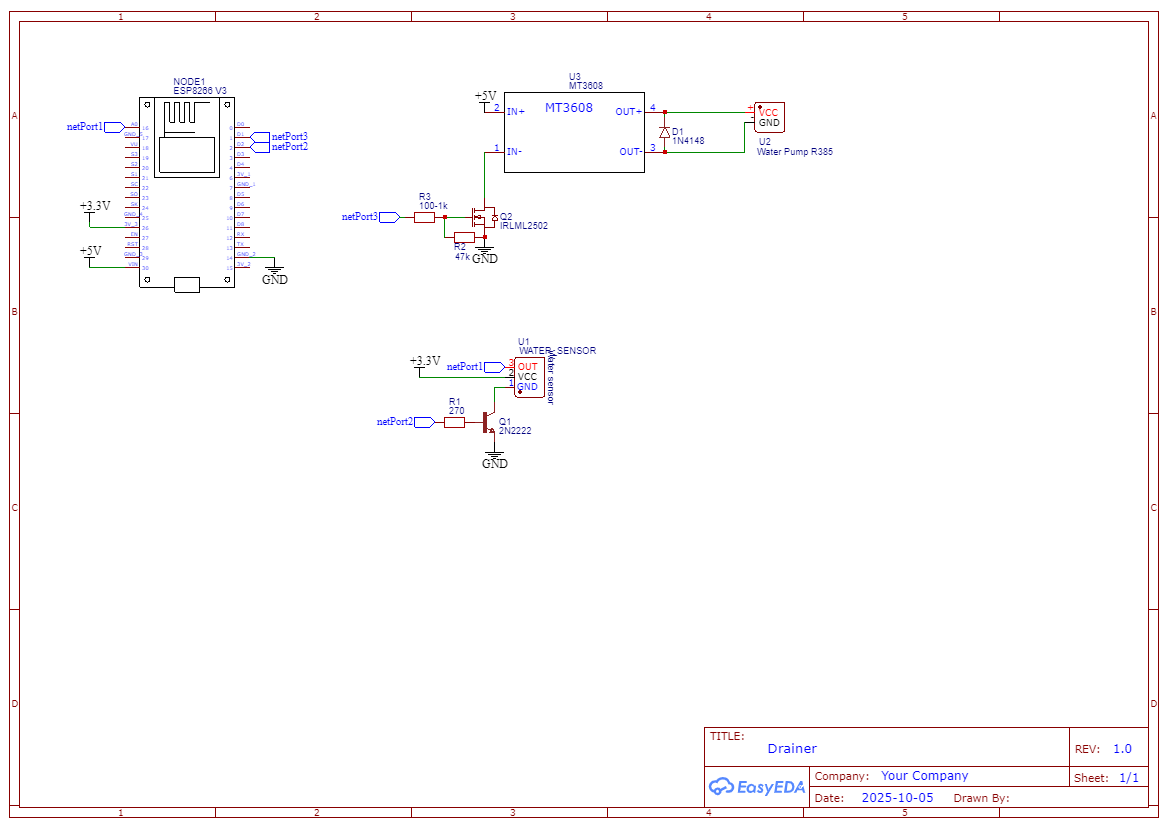
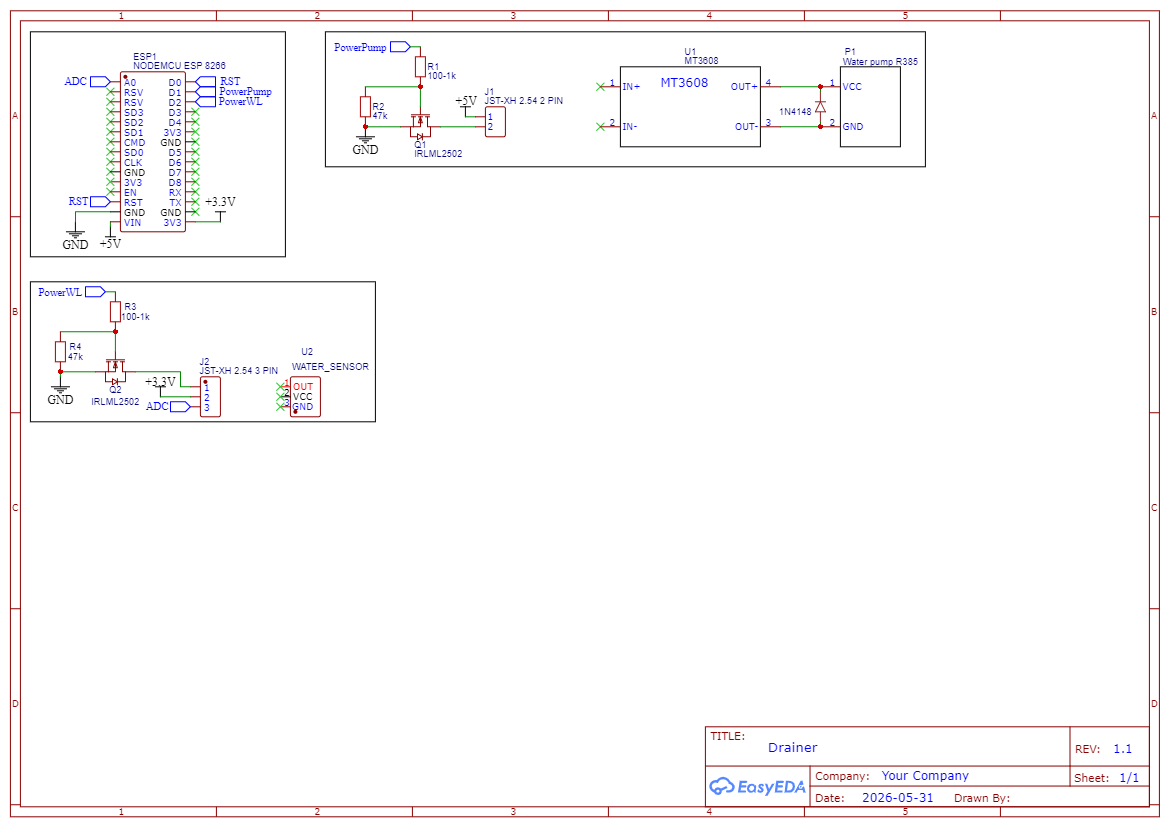
Update circuit

Changed region(s): [[0.0, 0.0, 1.0, 0.9976], [0.308, 0.393, 0.4927, 0.5744], [0.2772, 0.2418, 0.4619, 0.3325]]

diff --git a/readme.md b/readme.md
@@ -5,8 +5,7 @@
 - 3pin water level sensor (red)
 - MT3608 DC-DC step up converter
 - R385 Suction pump
-- 2N2222 (Sensor power supply)
-- IRLML2502 (DC-DC -> Pump power supply)
+- 2x IRLML2502 (DC-DC -> Pump power supply)
 - Some resistors
 
 > **This project uses a 5V 2A USB power supply from a standard USB charger.**
